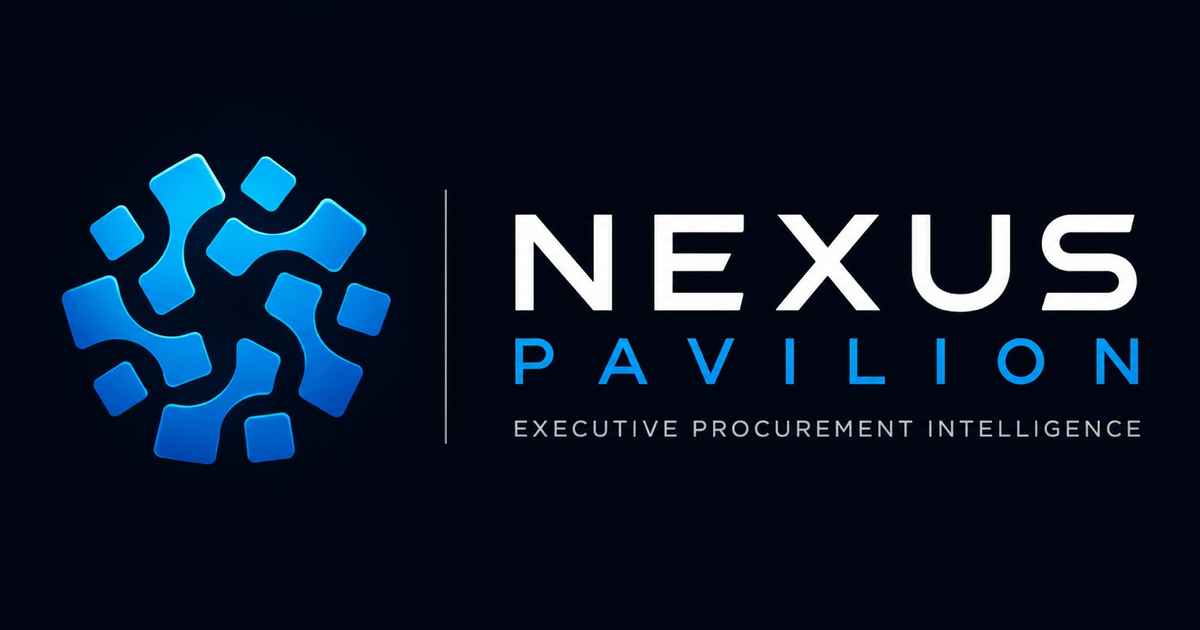
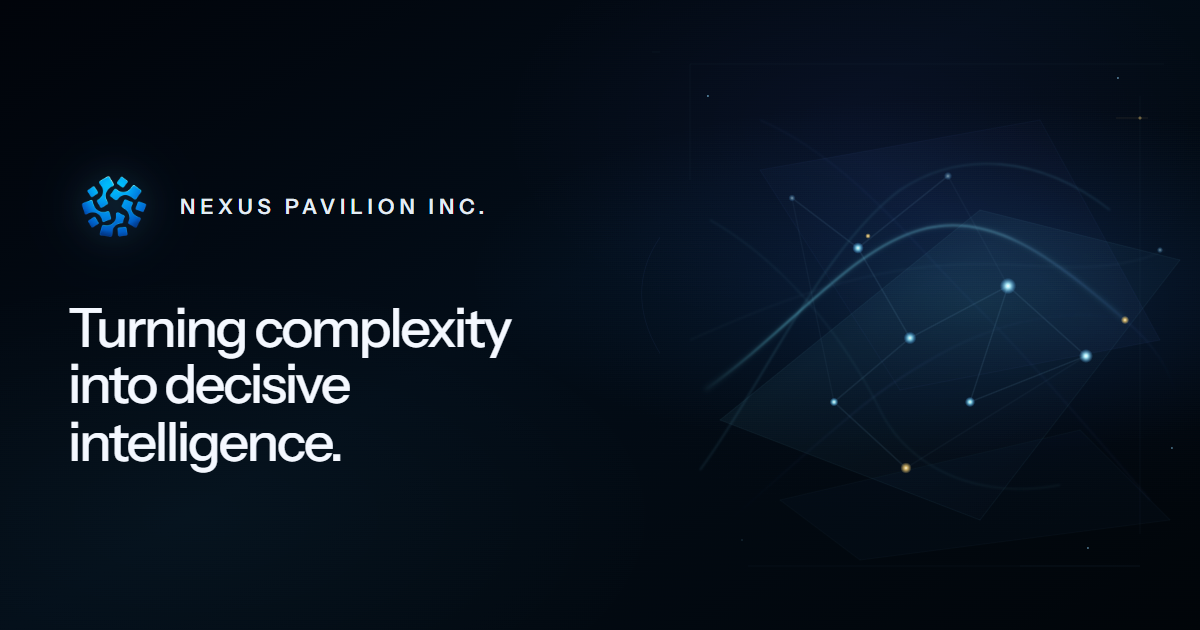
Add corporate social preview metadata

Changed region(s): [[0.0308, 0.2111, 0.9867, 0.754], [0.74, 0.7238, 0.7708, 0.754]]

diff --git a/src/app/contact/page.tsx b/src/app/contact/page.tsx
@@ -16,8 +16,8 @@ export const metadata: Metadata = {
   description: CONTACT_DESCRIPTION,
   alternates: { canonical: "/contact" },
   robots: { index: true, follow: true },
-  openGraph: { title: CONTACT_TITLE, description: CONTACT_DESCRIPTION, url: "/contact", siteName: "Nexus Pavilion Inc.", type: "website", locale: "en_US" },
-  twitter: { card: "summary_large_image", title: CONTACT_TITLE, description: CONTACT_DESCRIPTION },
+  openGraph: { title: CONTACT_TITLE, description: CONTACT_DESCRIPTION, url: "/contact", siteName: "Nexus Pavilion Inc.", type: "website", locale: "en_US", images: [{ url: "/branding/og-image.png", width: 1200, height: 630, alt: "Nexus Pavilion Inc. — Turning complexity into decisive intelligence." }] },
+  twitter: { card: "summary_large_image", title: CONTACT_TITLE, description: CONTACT_DESCRIPTION, images: ["/branding/og-image.png"] },
 };
 
 export default function ContactPage() {

diff --git a/src/app/page.tsx b/src/app/page.tsx
@@ -22,8 +22,8 @@ export const metadata: Metadata = {
   description: CORPORATE_DESCRIPTION,
   alternates: { canonical: "/" },
   robots: { index: true, follow: true },
-  openGraph: { title: CORPORATE_TITLE, description: CORPORATE_DESCRIPTION, url: "/", siteName: "Nexus Pavilion Inc.", type: "website", locale: "en_US" },
-  twitter: { card: "summary_large_image", title: CORPORATE_TITLE, description: CORPORATE_DESCRIPTION },
+  openGraph: { title: CORPORATE_TITLE, description: CORPORATE_DESCRIPTION, url: "/", siteName: "Nexus Pavilion Inc.", type: "website", locale: "en_US", images: [{ url: "/branding/og-image.png", width: 1200, height: 630, alt: "Nexus Pavilion Inc. — Turning complexity into decisive intelligence." }] },
+  twitter: { card: "summary_large_image", title: CORPORATE_TITLE, description: CORPORATE_DESCRIPTION, images: ["/branding/og-image.png"] },
 };
 
 const navigation = [

diff --git a/src/app/about/page.tsx b/src/app/about/page.tsx
@@ -16,8 +16,8 @@ export const metadata: Metadata = {
   description: ABOUT_DESCRIPTION,
   alternates: { canonical: "/about" },
   robots: { index: true, follow: true },
-  openGraph: { title: ABOUT_TITLE, description: ABOUT_DESCRIPTION, url: "/about", siteName: "Nexus Pavilion Inc.", type: "website", locale: "en_US" },
-  twitter: { card: "summary_large_image", title: ABOUT_TITLE, description: ABOUT_DESCRIPTION },
+  openGraph: { title: ABOUT_TITLE, description: ABOUT_DESCRIPTION, url: "/about", siteName: "Nexus Pavilion Inc.", type: "website", locale: "en_US", images: [{ url: "/branding/og-image.png", width: 1200, height: 630, alt: "Nexus Pavilion Inc. — Turning complexity into decisive intelligence." }] },
+  twitter: { card: "summary_large_image", title: ABOUT_TITLE, description: ABOUT_DESCRIPTION, images: ["/branding/og-image.png"] },
 };
 
 const buildingPrinciples = [
